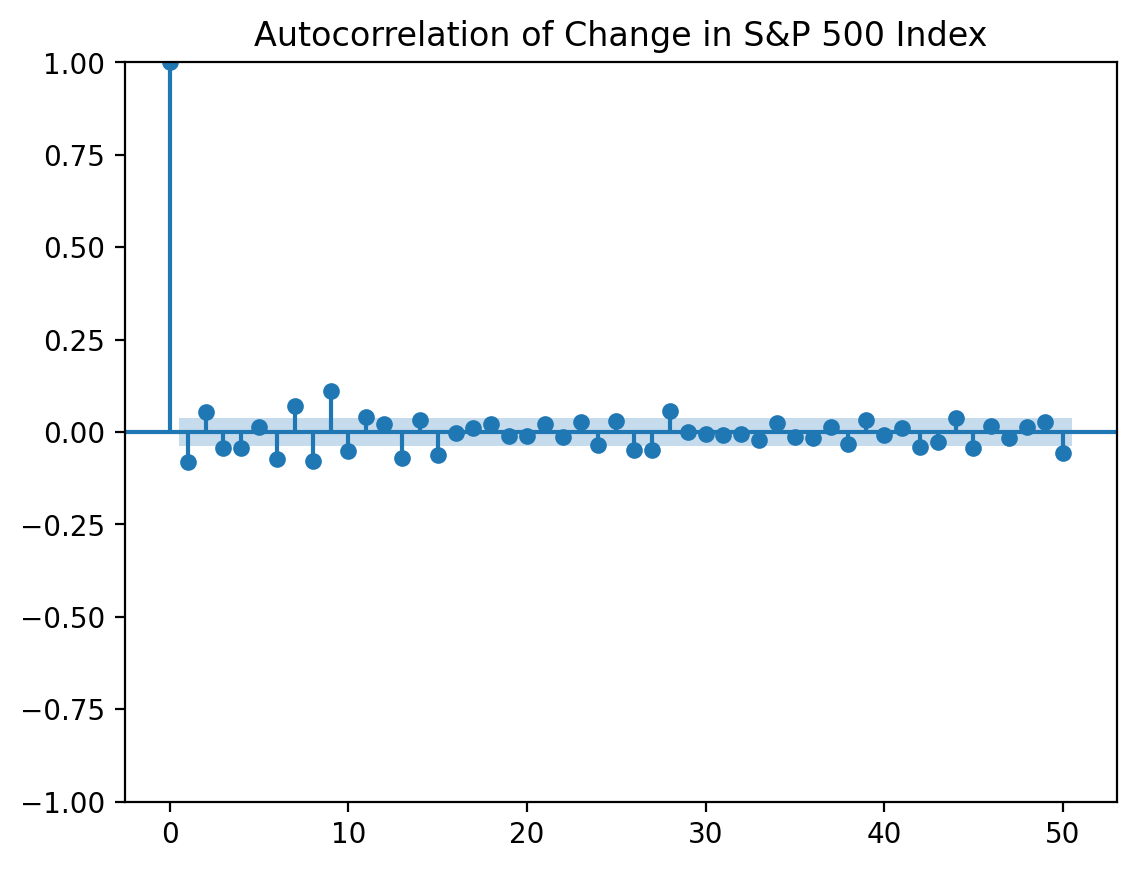
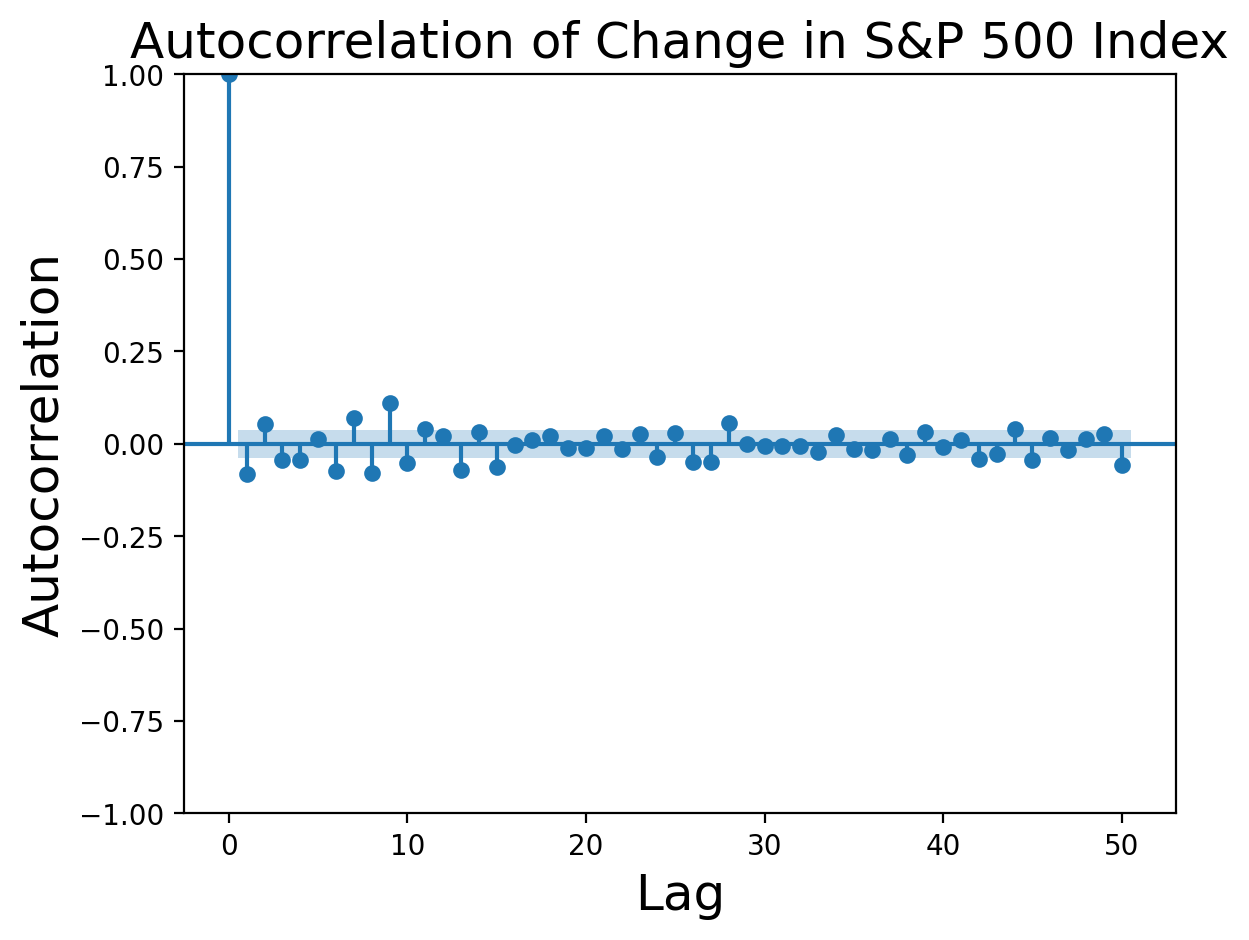
Add axis labels to acf plots

Changed region(s): [[0.0, 0.0, 0.9859, 0.9942]]

diff --git a/chapter_2_background_math/04_variance_covariance.md b/chapter_2_background_math/04_variance_covariance.md
@@ -8,7 +8,7 @@ There are several *operators* we will encounter in this book. Values such as mea
 
 An operator $\mathbb{O}$ is defined as a rule that maps a member of a set to another member. Thus, an operator could just be a function such as $5$, defined as multiplying by $5$ (i.e. $f(x)=5\,x$)[^1]. However, the most common operators we will use map one function to another function. Two such operators are differentiation $\frac{d}{dx}$ and integration $\int dx$.
 
-[^1]: In some disciplines such as quantum mechanics, operators are often expressed with a "hat" as $\hat{\mathbb{O}}$, not to be confused with the hat used to denote a statistical estimator.
+[^1]: In some disciplines such as quantum mechanics, operators are often denoted by a "hat" as $\hat{\mathbb{O}}$, not to be confused with the hat used to denote a statistical estimator.
 		
         
 *Linear operators* are of particular interest. An operator is a linear operator if it fulfills the following two conditions:
